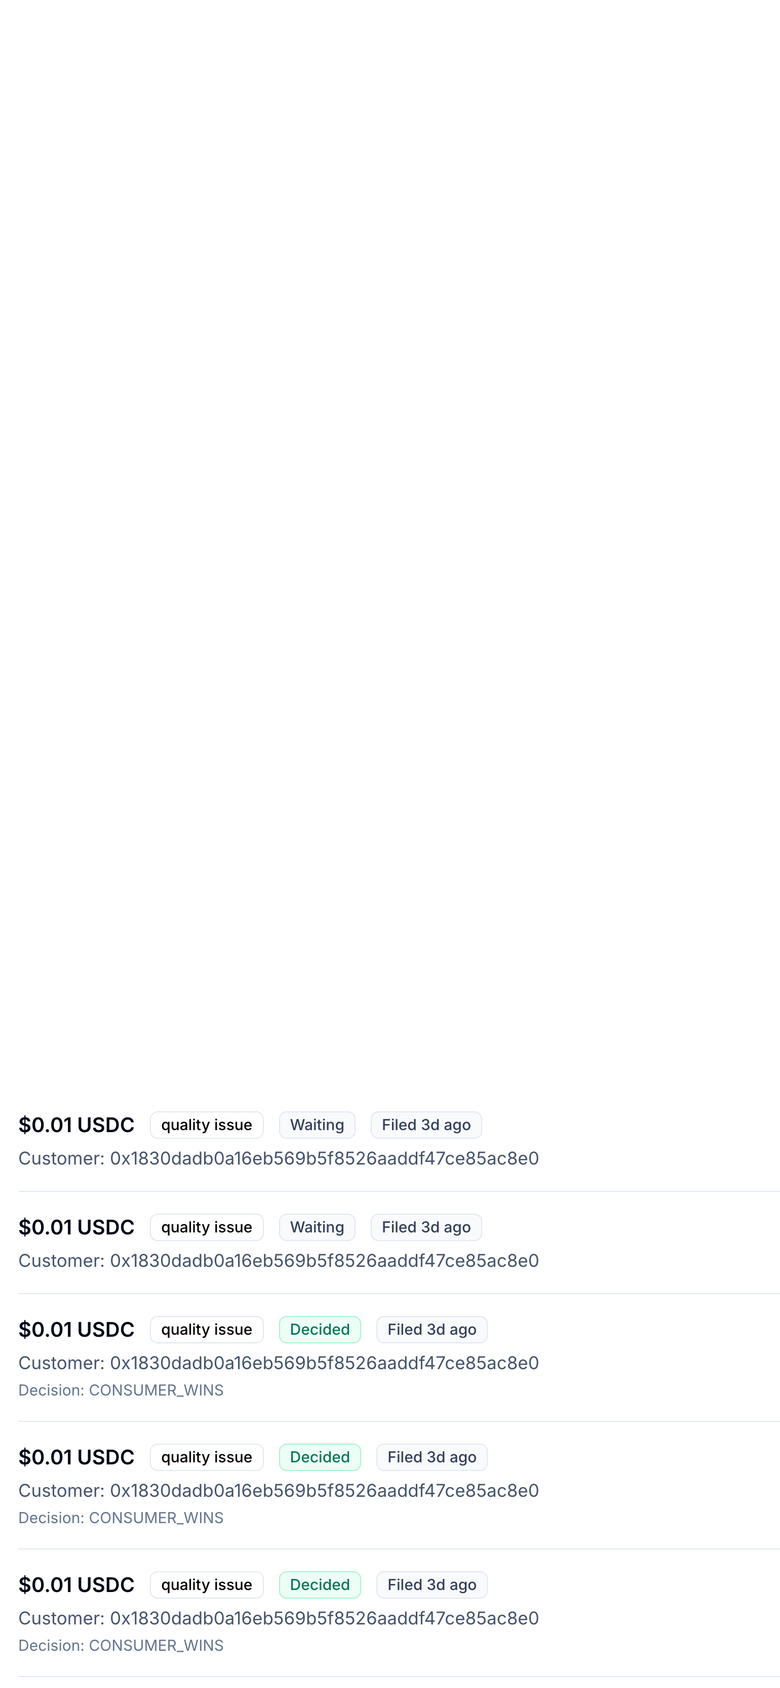
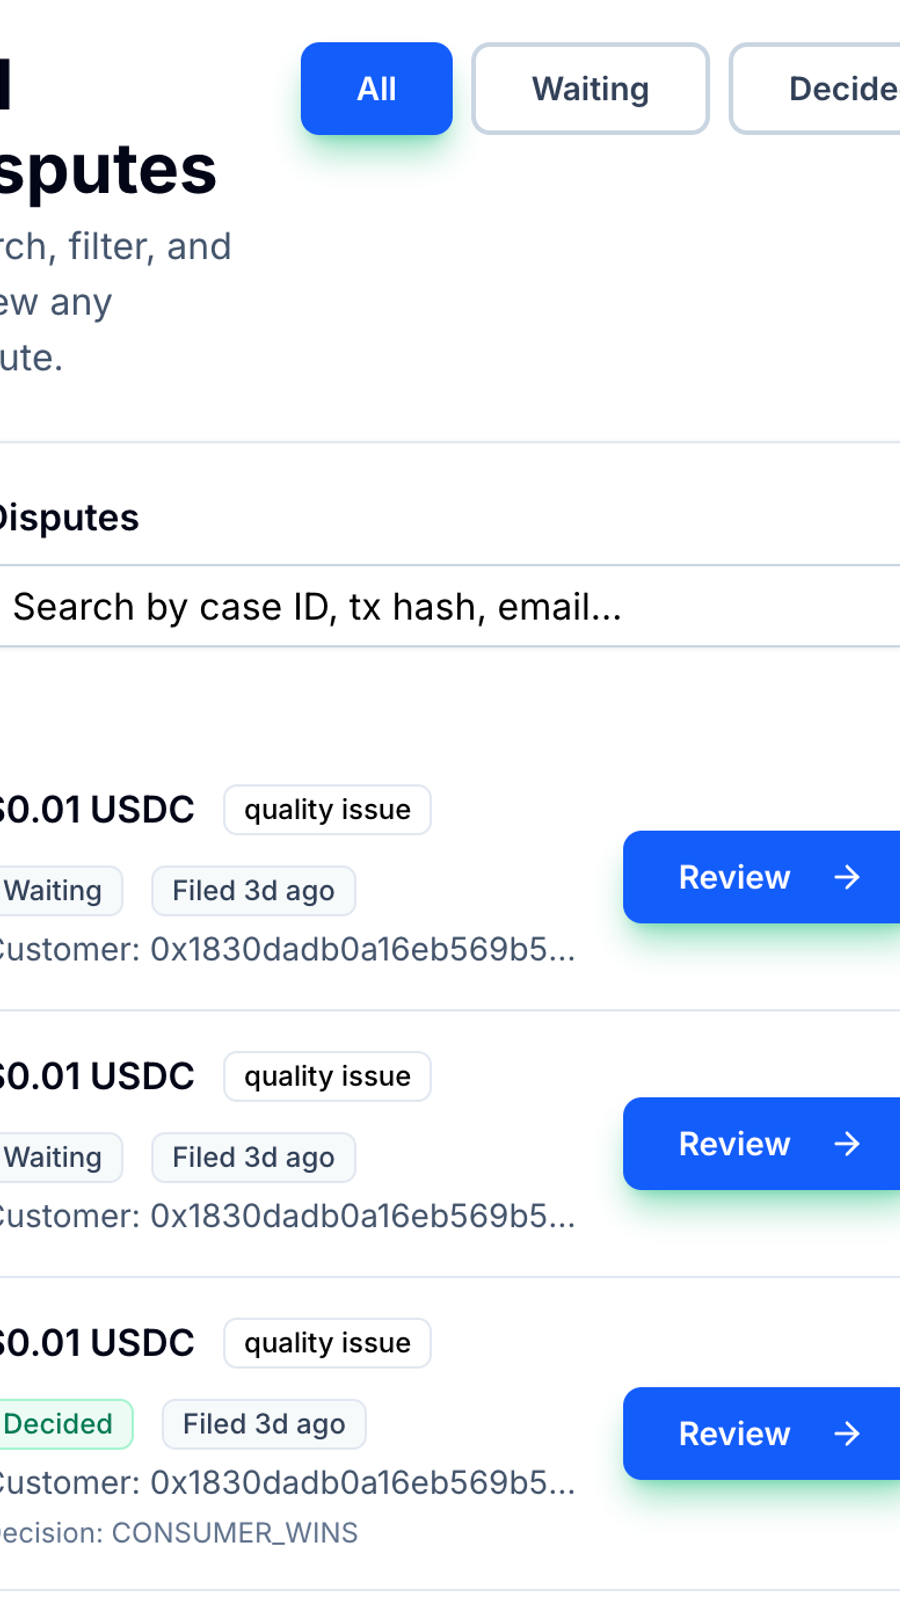
fix: generate hero screenshots from local UI

diff --git a/dashboard/src/app/screenshots/all-disputes/HeroShot.tsx b/dashboard/src/app/screenshots/all-disputes/HeroShot.tsx
@@ -1,0 +1,145 @@
+"use client"
+
+import type { CSSProperties } from "react"
+import { Card, CardContent, CardHeader, CardTitle } from "@/components/ui/card"
+import { Badge } from "@/components/ui/badge"
+import { Input } from "@/components/ui/input"
+import { Button } from "@/components/ui/button"
+import { ArrowRight } from "lucide-react"
+
+type MockDispute = {
+  amount: string
+  reason: string
+  decided: boolean
+  ageLabel: string
+  customer: string
+  decision?: string
+}
+
+const MOCK_DISPUTES: MockDispute[] = [
+  {
+    amount: "$0.01 USDC",
+    reason: "quality issue",
+    decided: false,
+    ageLabel: "Filed 3d ago",
+    customer: "0x1830dadb0a16eb569b5f8526aaddf47ce85ac8e0",
+  },
+  {
+    amount: "$0.01 USDC",
+    reason: "quality issue",
+    decided: false,
+    ageLabel: "Filed 3d ago",
+    customer: "0x1830dadb0a16eb569b5f8526aaddf47ce85ac8e0",
+  },
+  {
+    amount: "$0.01 USDC",
+    reason: "quality issue",
+    decided: true,
+    ageLabel: "Filed 3d ago",
+    customer: "0x1830dadb0a16eb569b5f8526aaddf47ce85ac8e0",
+    decision: "CONSUMER_WINS",
+  },
+  {
+    amount: "$0.01 USDC",
+    reason: "quality issue",
+    decided: true,
+    ageLabel: "Filed 3d ago",
+    customer: "0x1830dadb0a16eb569b5f8526aaddf47ce85ac8e0",
+    decision: "CONSUMER_WINS",
+  },
+  {
+    amount: "$0.01 USDC",
+    reason: "quality issue",
+    decided: true,
+    ageLabel: "Filed 3d ago",
+    customer: "0x1830dadb0a16eb569b5f8526aaddf47ce85ac8e0",
+    decision: "CONSUMER_WINS",
+  },
+]
+
+export function HeroShot({ variant }: { variant: "desktop" | "mobile" }) {
+  const isMobile = variant === "mobile"
+
+  // Fixed canvases so screenshots are deterministic and match the landing hero aspect ratios.
+  const frameStyle: CSSProperties = isMobile
+    ? { width: 900, height: 1600 } // 9:16
+    : { width: 1600, height: 1000 } // 16:10
+
+  return (
+    <div className="min-h-screen bg-white flex items-center justify-center p-8">
+      <div
+        id="hero-shot"
+        style={frameStyle}
+        className="bg-white rounded-xl border border-slate-200 shadow-sm overflow-hidden"
+      >
+        <div className="h-full w-full p-10">
+          <div className="flex items-start justify-between gap-6">
+            <div>
+              <h1 className="text-3xl font-bold text-slate-950">All disputes</h1>
+              <p className="text-slate-600 mt-1">Search, filter, and review any dispute.</p>
+            </div>
+
+            <div className="flex items-center gap-2">
+              <Button className="bg-blue-600 hover:bg-blue-700 text-white">All</Button>
+              <Button variant="outline" className="border-slate-300">
+                Waiting
+              </Button>
+              <Button variant="outline" className="border-slate-300">
+                Decided
+              </Button>
+            </div>
+          </div>
+
+          <div className="mt-6">
+            <Card className="border border-slate-200">
+              <CardHeader className="pb-3">
+                <div className="flex items-center justify-between gap-3 flex-wrap">
+                  <CardTitle className="text-slate-950">Disputes</CardTitle>
+                  <div className="w-full sm:w-96">
+                    <Input placeholder="Search by case ID, tx hash, email…" className="border-slate-300" />
+                  </div>
+                </div>
+              </CardHeader>
+              <CardContent className="pt-0">
+                <div className="divide-y divide-slate-200">
+                  {MOCK_DISPUTES.map((d, idx) => (
+                    <div key={idx} className="py-4 flex items-center justify-between gap-4">
+                      <div className="min-w-0">
+                        <div className="flex items-center gap-3 flex-wrap">
+                          <div className="font-semibold text-slate-950">{d.amount}</div>
+                          <Badge variant="secondary" className="border border-slate-200">
+                            {d.reason}
+                          </Badge>
+                          <Badge
+                            variant="secondary"
+                            className={
+                              d.decided
+                                ? "bg-emerald-50 text-emerald-700 border border-emerald-200"
+                                : "bg-slate-50 text-slate-700 border border-slate-200"
+                            }
+                          >
+                            {d.decided ? "Decided" : "Waiting"}
+                          </Badge>
+                          <Badge variant="secondary" className="bg-slate-50 text-slate-700 border border-slate-200">
+                            {d.ageLabel}
+                          </Badge>
+                        </div>
+                        <div className="mt-1 text-sm text-slate-600 truncate">Customer: {d.customer}</div>
+                        {d.decision && <div className="mt-1 text-xs text-slate-500">Decision: {d.decision}</div>}
+                      </div>
+
+                      <Button className="bg-blue-600 hover:bg-blue-700 text-white">
+                        Review <ArrowRight className="ml-2 h-4 w-4" />
+                      </Button>
+                    </div>
+                  ))}
+                </div>
+              </CardContent>
+            </Card>
+          </div>
+        </div>
+      </div>
+    </div>
+  )
+}
+

diff --git a/dashboard/src/app/page.tsx b/dashboard/src/app/page.tsx
@@ -19,29 +19,23 @@ function LandingScreenshot({
   aspect = "aspect-[16/10]",
   priority = false,
   className,
-  imageClassName,
 }: {
   src: string
   alt: string
   aspect?: string
   priority?: boolean
   className?: string
-  imageClassName?: string
 }) {
   return (
-    <div className={`w-full ${aspect} rounded-xl border border-slate-200 bg-white shadow-sm overflow-hidden ${className || ""}`}>
-      <div className="w-full h-full p-4">
-        <div className="relative w-full h-full">
-          <Image
-            src={src}
-            alt={alt}
-            fill
-            priority={priority}
-            className={imageClassName || "object-contain"}
-            sizes="(min-width: 1024px) 50vw, 100vw"
-          />
-        </div>
-      </div>
+    <div className={`relative w-full ${aspect} rounded-xl border border-slate-200 bg-white shadow-sm overflow-hidden ${className || ""}`}>
+      <Image
+        src={src}
+        alt={alt}
+        fill
+        priority={priority}
+        className="object-contain"
+        sizes="(min-width: 1024px) 50vw, 100vw"
+      />
     </div>
   )
 }
@@ -51,15 +45,11 @@ function ResponsiveLandingScreenshot({
   mobileSrc,
   alt,
   priority = false,
-  desktopAspect = "aspect-[16/10]",
-  mobileAspect = "aspect-[9/16]",
 }: {
   desktopSrc: string
   mobileSrc: string
   alt: string
   priority?: boolean
-  desktopAspect?: string
-  mobileAspect?: string
 }) {
   return (
     <>
@@ -67,14 +57,12 @@ function ResponsiveLandingScreenshot({
         src={desktopSrc}
         alt={alt}
         priority={priority}
-        aspect={desktopAspect}
         className="hidden lg:block"
       />
       <LandingScreenshot
         src={mobileSrc}
         alt={alt}
         priority={priority}
-        aspect={mobileAspect}
         className="lg:hidden"
       />
     </>
@@ -167,7 +155,6 @@ export default function HomePage() {
                 mobileSrc={ALL_DISPUTES_MOBILE_SRC}
                 alt="All disputes dashboard view"
                 priority
-                desktopAspect="aspect-[4/3]"
               />
               </div>
           </div>

diff --git a/dashboard/middleware.ts b/dashboard/middleware.ts
@@ -5,6 +5,7 @@ const isPublicRoute = createRouteMatcher([
   '/',           // Landing page
   '/sign-in(.*)', // Sign-in pages
   '/sign-up(.*)', // Sign-up pages
+  '/screenshots(.*)', // Public screenshot routes for marketing assets (no auth)
   // Top-ups use x402 payment proof; keep endpoint public to avoid www/apex session issues.
   '/api/billing/topup(.*)',
 ])

diff --git a/dashboard/src/app/screenshots/all-disputes/page.tsx b/dashboard/src/app/screenshots/all-disputes/page.tsx
@@ -1,0 +1,6 @@
+import { redirect } from "next/navigation"
+
+export default function AllDisputesShotsIndex() {
+  redirect("/screenshots/all-disputes/desktop")
+}
+

diff --git a/dashboard/src/app/screenshots/all-disputes/desktop/page.tsx b/dashboard/src/app/screenshots/all-disputes/desktop/page.tsx
@@ -1,0 +1,6 @@
+import { HeroShot } from "../HeroShot"
+
+export default function AllDisputesDesktopShot() {
+  return <HeroShot variant="desktop" />
+}
+

diff --git a/dashboard/src/app/screenshots/all-disputes/mobile/page.tsx b/dashboard/src/app/screenshots/all-disputes/mobile/page.tsx
@@ -1,0 +1,6 @@
+import { HeroShot } from "../HeroShot"
+
+export default function AllDisputesMobileShot() {
+  return <HeroShot variant="mobile" />
+}
+
